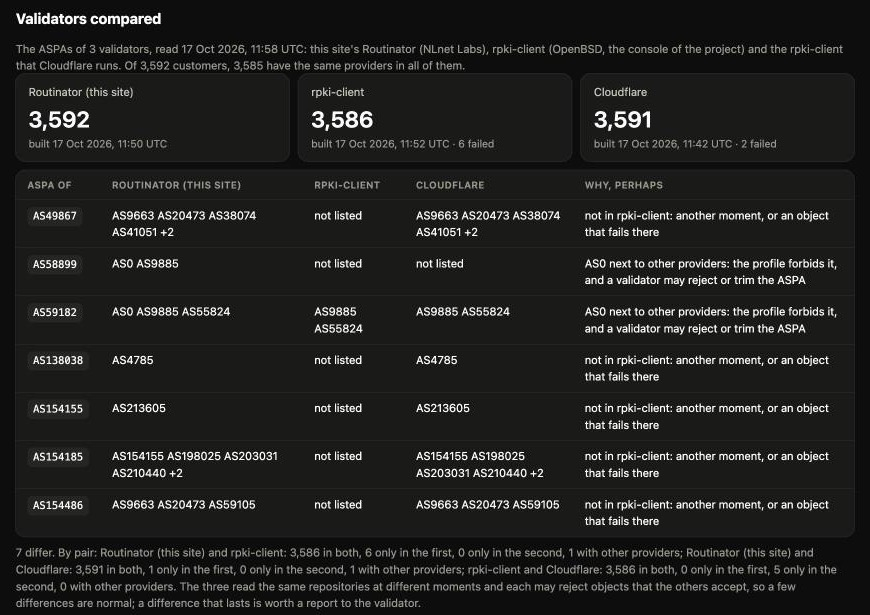
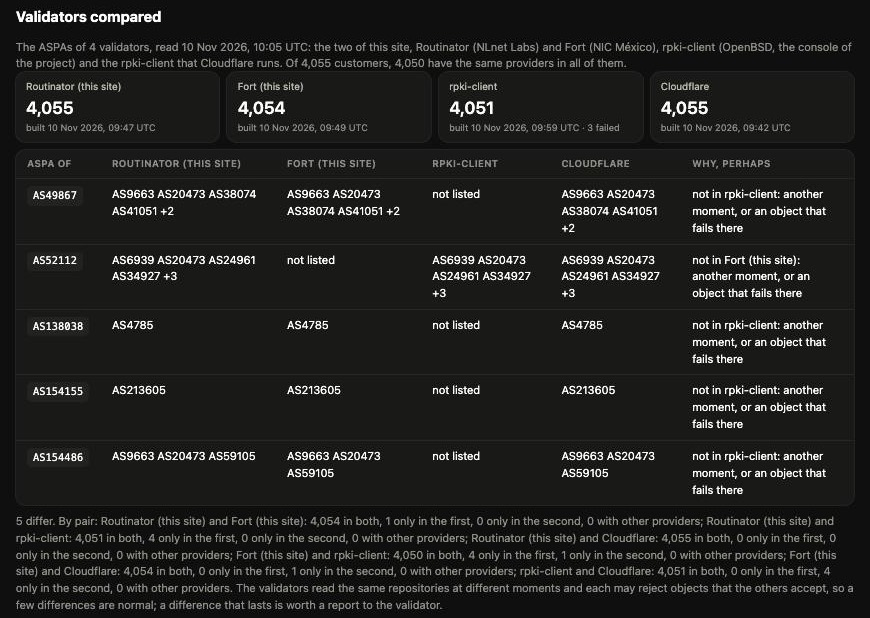
README: the screenshot of Validators compared with Fort, the fourth validator

diff --git a/README.md b/README.md
@@ -77,7 +77,7 @@
   </tr>
   <tr>
     <td width="50%"><img src="assets/screenshots/leaks-dark.jpg" alt="Valleys today: the invalid routes of the collectors, grouped by the place of the valley, with the ASes inside it"></td>
-    <td width="50%"><img src="assets/screenshots/validators-dark.jpg" alt="Validators compared: the customers whose providers differ between Routinator, rpki-client and the rpki-client of Cloudflare"></td>
+    <td width="50%"><img src="assets/screenshots/validators-dark.jpg" alt="Validators compared: the customers whose providers differ between the Routinator and the Fort of this site, rpki-client and the rpki-client of Cloudflare"></td>
   </tr>
   <tr>
     <td align="center"><sub>Valleys seen today in the table dumps</sub></td>
